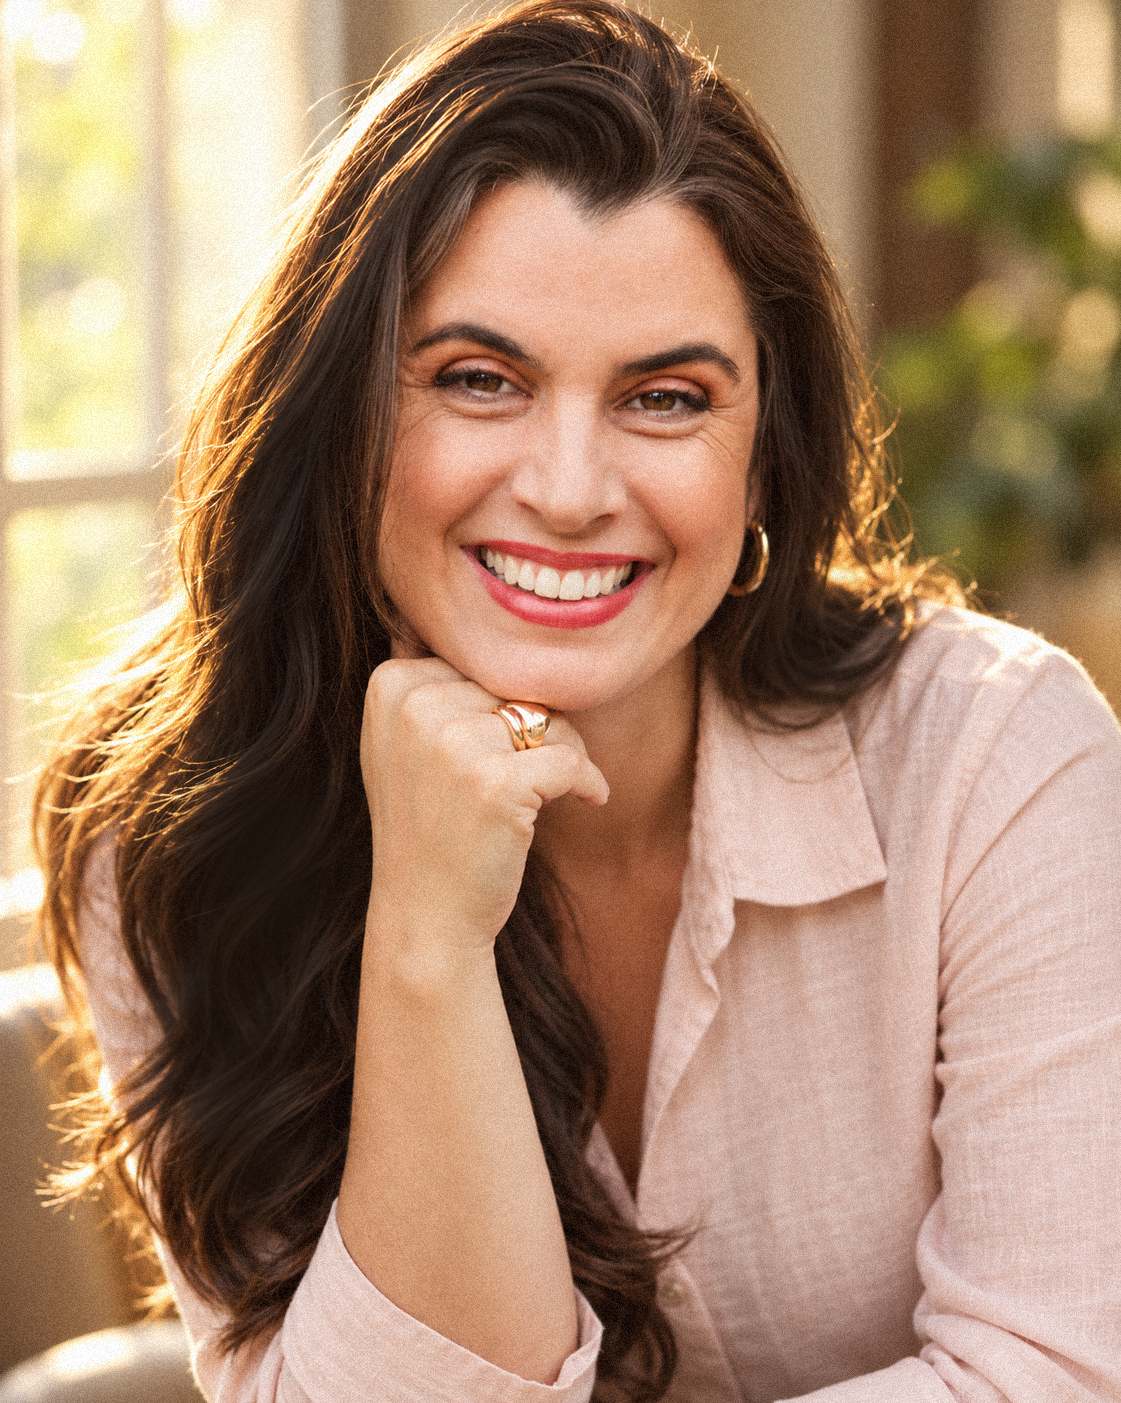
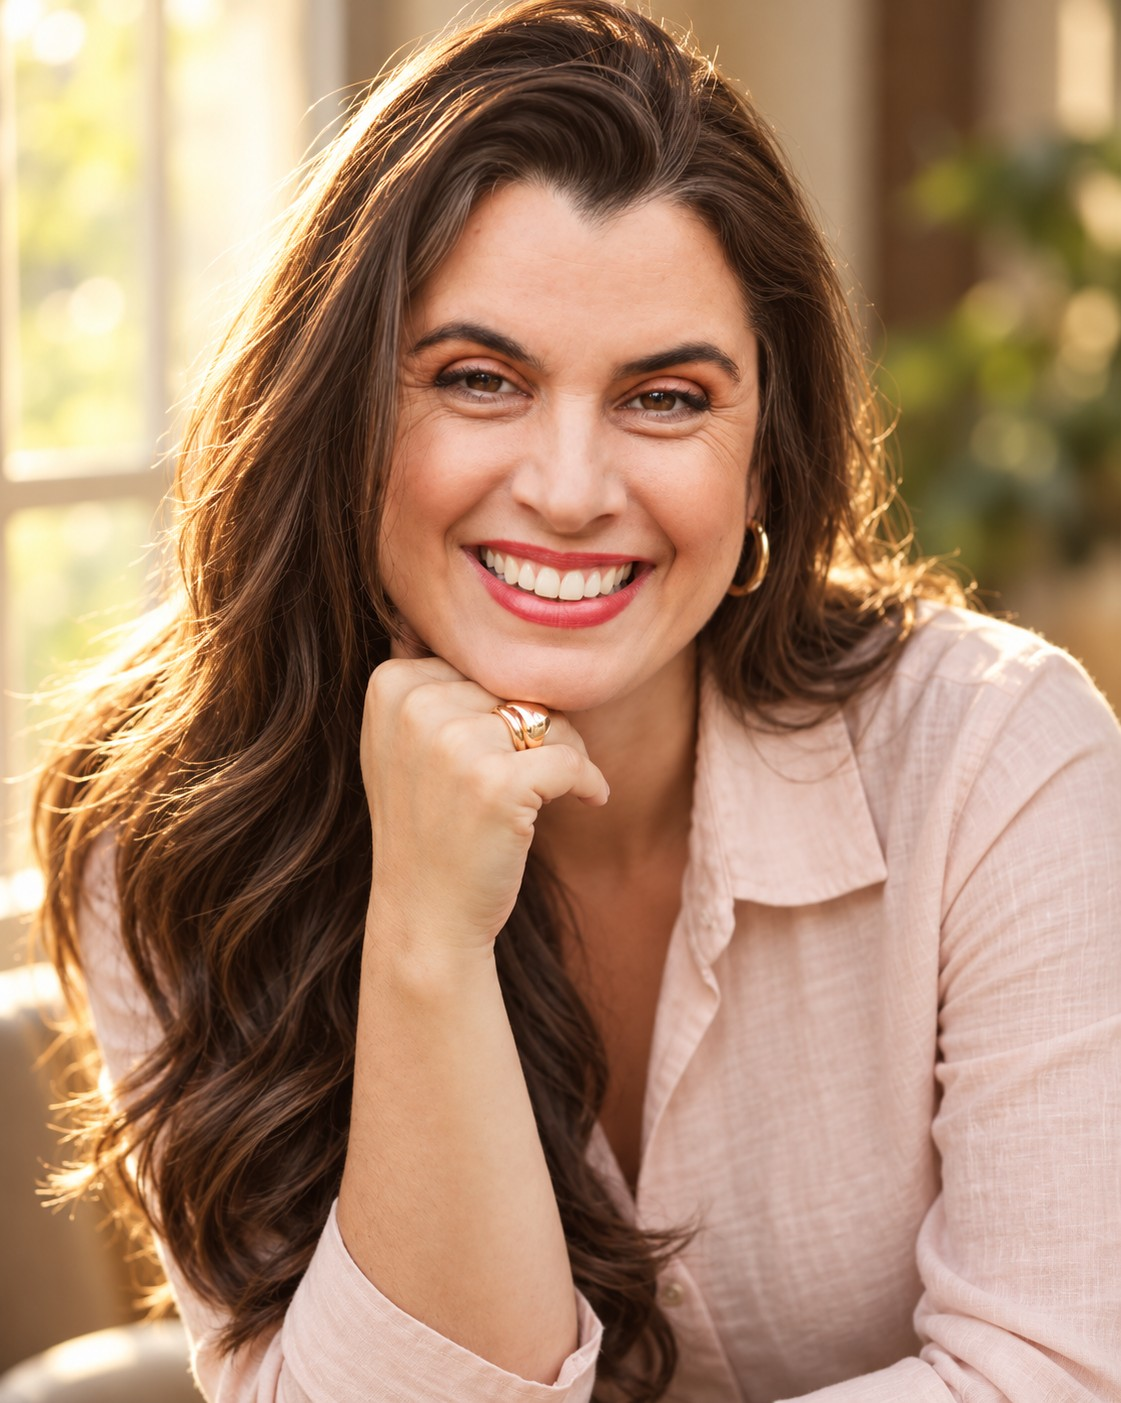
Add files via upload

Changed region(s): [[0.0937, 0.0306, 0.4996, 0.8582], [0.6869, 0.2452, 0.8118, 0.521], [0.3122, 0.7356, 0.3434, 0.8275]]

diff --git a/index.html b/index.html
@@ -3,7 +3,7 @@
 <head>
 <meta charset="utf-8">
 <meta name="viewport" content="width=device-width, initial-scale=1, viewport-fit=cover">
-<title>Lucinda Rae · Now it's your turn</title>
+<title>Lucinda Rae · When you feel good, you do good</title>
 <link rel="preconnect" href="https://fonts.googleapis.com">
 <link href="https://fonts.googleapis.com/css2?family=Lora:ital,wght@0,400;0,500;0,600;1,400;1,500&display=swap" rel="stylesheet">
 <style>
@@ -32,8 +32,8 @@ a:hover{color:#4A3530;}
     <div style="position:absolute; inset:0; background:rgba(28,16,12,0.22);"></div>
     <div style="position:relative; max-width:860px; display:flex; flex-direction:column; align-items:center;">
       <p style="margin:0 0 22px; font-size:16px; font-style:italic;">from Lucinda Rae</p>
-      <h1 style="margin:0; font-weight:500; font-size:clamp(36px, 5.4vw, 60px); line-height:1.02; letter-spacing:-0.01em; text-wrap:balance;">You've held everyone together. <em style="font-style:italic; color:#EDB7A6;">Now it's your turn.</em></h1>
-      <p style="margin:30px auto 0; max-width:30em; font-size:20px; line-height:1.75; text-wrap:pretty;">For the mama running on empty and ready to come back to herself. We all just want to feel good, and when you feel good, you do good.</p>
+      <h1 style="margin:0; font-weight:500; font-size:clamp(36px, 5.4vw, 60px); line-height:1.02; letter-spacing:-0.01em; text-wrap:balance;">When you feel good, <em style="font-style:italic; color:#EDB7A6;">you do good.</em></h1>
+      <p style="margin:30px auto 0; max-width:30em; font-size:20px; line-height:1.75; text-wrap:pretty;">Elevate your mind and empower your day. A simple morning ritual for clear focus, steady energy and feeling like yourself again.</p>
       <div style="width:100%; display:flex; flex-wrap:wrap; gap:14px; justify-content:center; margin-top:40px; white-space:nowrap;">
         <a href="#video" style="display:inline-flex; align-items:center; justify-content:center; text-decoration:none; border:none; cursor:pointer; background:#FFFFFF; color:#9A5A48; font-family:'Lora', serif; font-size:19px; padding:0 40px; min-height:58px; border-radius:0; transition:background .2s ease;" class="h1">watch the video</a>
         <a href="#story" style="display:inline-flex; align-items:center; justify-content:center; text-decoration:none; cursor:pointer; background:transparent; border:1px solid #FFFFFF; color:#FFFFFF; font-family:'Lora', serif; font-size:19px; padding:0 40px; min-height:58px; border-radius:0; transition:background .2s ease;" class="h2">read my story</a>
@@ -48,55 +48,64 @@ a:hover{color:#4A3530;}
       </div>
       <div style="flex:1 1 340px; display:flex; flex-direction:column;">
         <p style="margin:0 0 14px; font-size:16px; font-style:italic; color:#9A5A48;">my story</p>
-        <h2 style="margin:0 0 28px; font-weight:500; font-size:clamp(36px, 5vw, 52px); line-height:1.12; text-wrap:balance;">Somewhere in caring for my son, <em style="font-style:italic; color:#B0705E;">I lost track of me</em></h2>
+        <h2 style="margin:0 0 28px; font-weight:500; font-size:clamp(36px, 5vw, 52px); line-height:1.12; text-wrap:balance;">We all just want to <em style="font-style:italic; color:#B0705E;">feel good</em></h2>
         <div style="display:flex; flex-direction:column; gap:20px; font-size:19px; line-height:1.85; text-wrap:pretty;">
-          <p style="margin:0;">When my adult son was going through the hardest time of his life, I went through it with him. I stopped sleeping. I stopped eating real meals. Anxious and burned out, I kept going because that's what mamas do, until there was nothing left to give.</p>
+          <p style="margin:0;">Life gets heavy. Work, family, the hard seasons nobody sees. Most of us keep going on coffee and willpower, telling ourselves we'll rest later. I did that for years, until I was running on nothing.</p>
           <p style="margin:0;">I've come to believe our bodies hold what we've been through. The hard seasons don't just pass. They stay with us, sometimes for years.</p>
-          <p style="margin:0;">Coming back to myself started with something small: a gentle morning, one glass, a few quiet minutes before anyone needed me. This product line was born out of a lot of pain, and that pain turned into compassion. That's why I'm sharing it with you.</p>
+          <p style="margin:0;">Feeling good again started with something small: one glass, every morning, a few minutes that were just mine. This product line was born out of a lot of pain, and that pain turned into compassion. That's why I'm sharing it with you.</p>
         </div>
       </div>
     </div>
   </section>
 
     <section data-screen-label="Quote" style="position:relative; min-height:max(720px, 96vh); display:flex; align-items:center; justify-content:center; padding:128px 28px; overflow:hidden; background:#3A2A26;">
-    <img src="lu-young-mom.jpg" alt="A young mother lifting her baby in warm sunlight" style="position:absolute; inset:0; width:100%; height:100%; object-fit:cover; object-position:45% 30%; filter:saturate(1.05);">
+    <img src="products.png" alt="" style="position:absolute; inset:0; width:100%; height:100%; object-fit:cover; object-position:center; filter:saturate(1.05);">
     <div style="position:absolute; inset:0; background:rgba(92,44,30,0.72); mix-blend-mode:multiply;"></div>
     <div style="position:absolute; inset:0; background:rgba(28,16,12,0.2);"></div>
     <div style="position:relative; max-width:860px; display:flex; flex-direction:column; align-items:center; text-align:center; color:#FFFFFF;">
-      <p style="margin:0 0 20px; font-size:16px; font-style:italic;">what I want for you</p>
-      <h2 style="margin:0; font-weight:500; font-size:clamp(32px, 4.6vw, 48px); line-height:1.2; text-wrap:balance;">Waking up gently. Feeling less overwhelmed. Sleeping better. Coming back to yourself.</h2>
-      <p style="margin:28px auto 0; max-width:30em; font-size:19px; line-height:1.85; text-wrap:pretty;">You're the mom and the superhero, and you have to get through this season too. It's time to let the sorrow burn off and watch the hurt go up in flames. You deserve to feel good again.</p>
+      <p style="margin:0 0 20px; font-size:16px; font-style:italic;">what feeling good looks like</p>
+      <h2 style="margin:0; font-weight:500; font-size:clamp(32px, 4.6vw, 48px); line-height:1.2; text-wrap:balance;">Waking up clear. Moving through your day with steady energy. Showing up for the people you love, and for yourself.</h2>
+      <p style="margin:28px auto 0; max-width:30em; font-size:19px; line-height:1.85; text-wrap:pretty;">Your body holds what you've been through. It's time to let the heaviness burn off and watch the hurt go up in flames. You deserve to feel good again.</p>
       <div style="height:48px;"></div>
       <figure style="margin:0; max-width:620px; display:flex; flex-direction:column; align-items:center; gap:20px; padding:32px clamp(22px, 4vw, 44px);">
-        <blockquote style="margin:0; font-style:italic; font-weight:400; font-size:clamp(22px, 2.8vw, 30px); line-height:1.4; text-wrap:balance;">“I was so busy taking care of everyone else that I forgot to <span style="color:#EDB7A6;">take care of me.</span>”</blockquote>
+        <blockquote style="margin:0; font-style:italic; font-weight:400; font-size:clamp(22px, 2.8vw, 30px); line-height:1.4; text-wrap:balance;">“Feeling good isn't a luxury. It's how you <span style="color:#EDB7A6;">show up for your life.</span>”</blockquote>
         <figcaption style="font-size:16px; font-style:italic;">Lucinda Rae</figcaption>
       </figure>
     </div>
   </section>
 
-    <section data-screen-label="How it works" style="background:#EFE3D3; padding:64px 24px;">
-    <div style="max-width:1000px; margin:0 auto; display:flex; flex-wrap:wrap; justify-content:center; gap:40px 48px;">
-        <div style="flex:1 1 220px; display:flex; flex-direction:column; align-items:center; gap:6px; text-align:center;">
-          <p style="margin:0; font-size:15px; letter-spacing:0.2em; color:#9A5A48;">01</p>
-          <h3 style="margin:0; font-weight:500; font-size:24px; line-height:1.3;">Watch the video</h3>
-          <p style="margin:0; font-size:17px; line-height:1.7; max-width:18em; text-wrap:pretty;">Ten minutes with Jena on what she drinks every morning and why.</p>
+    <section data-screen-label="Benefits" style="background:#EFE3D3; padding:88px 24px;">
+    <div style="max-width:1100px; margin:0 auto;">
+      <div style="text-align:center; margin:0 auto 52px; max-width:640px;">
+        <p style="margin:0 0 14px; font-size:16px; font-style:italic; color:#9A5A48;">what a morning ritual can support</p>
+        <h2 style="margin:0; font-weight:500; font-size:clamp(34px, 4.8vw, 50px); line-height:1.12; text-wrap:balance;">Feel good from the <em style="font-style:italic; color:#B0705E;">inside out</em></h2>
+      </div>
+      <div style="display:flex; flex-wrap:wrap; justify-content:center; gap:40px 32px;">
+        <div style="flex:1 1 200px; display:flex; flex-direction:column; align-items:center; gap:8px; text-align:center; padding:8px;">
+          <h3 style="margin:0; font-weight:500; font-size:24px; line-height:1.3;">Steady energy</h3>
+          <div style="width:28px; height:1px; background:#D49A89; margin:4px 0;"></div>
+          <p style="margin:0; font-size:17px; line-height:1.7; max-width:16em; text-wrap:pretty;">Clean, all-day energy without the coffee crash.</p>
         </div>
-        <div style="width:1px; align-self:stretch; background:#D49A89;" class="divider"></div>
-        <div style="flex:1 1 220px; display:flex; flex-direction:column; align-items:center; gap:6px; text-align:center;">
-          <p style="margin:0; font-size:15px; letter-spacing:0.2em; color:#9A5A48;">02</p>
-          <h3 style="margin:0; font-weight:500; font-size:24px; line-height:1.3;">Tell me your goals</h3>
-          <p style="margin:0; font-size:17px; line-height:1.7; max-width:18em; text-wrap:pretty;">Send me a message. I read and answer every one myself.</p>
+        <div style="flex:1 1 200px; display:flex; flex-direction:column; align-items:center; gap:8px; text-align:center; padding:8px;">
+          <h3 style="margin:0; font-weight:500; font-size:24px; line-height:1.3;">Clear focus</h3>
+          <div style="width:28px; height:1px; background:#D49A89; margin:4px 0;"></div>
+          <p style="margin:0; font-size:17px; line-height:1.7; max-width:16em; text-wrap:pretty;">Organic mushrooms and nootropics for focus and creativity.</p>
         </div>
-        <div style="width:1px; align-self:stretch; background:#D49A89;" class="divider"></div>
-        <div style="flex:1 1 220px; display:flex; flex-direction:column; align-items:center; gap:6px; text-align:center;">
-          <p style="margin:0; font-size:15px; letter-spacing:0.2em; color:#9A5A48;">03</p>
-          <h3 style="margin:0; font-weight:500; font-size:24px; line-height:1.3;">Start your mornings</h3>
-          <p style="margin:0; font-size:17px; line-height:1.7; max-width:18em; text-wrap:pretty;">Together we pick what fits you, and I check in along the way.</p>
+        <div style="flex:1 1 200px; display:flex; flex-direction:column; align-items:center; gap:8px; text-align:center; padding:8px;">
+          <h3 style="margin:0; font-weight:500; font-size:24px; line-height:1.3;">Hydration & balance</h3>
+          <div style="width:28px; height:1px; background:#D49A89; margin:4px 0;"></div>
+          <p style="margin:0; font-size:17px; line-height:1.7; max-width:16em; text-wrap:pretty;">Trace minerals to nourish your core every day.</p>
         </div>
+        <div style="flex:1 1 200px; display:flex; flex-direction:column; align-items:center; gap:8px; text-align:center; padding:8px;">
+          <h3 style="margin:0; font-weight:500; font-size:24px; line-height:1.3;">Age on your terms</h3>
+          <div style="width:28px; height:1px; background:#D49A89; margin:4px 0;"></div>
+          <p style="margin:0; font-size:17px; line-height:1.7; max-width:16em; text-wrap:pretty;">Support for cellular health at every stage of life.</p>
+        </div>
+      </div>
     </div>
   </section>
 
-    <section id="video" data-screen-label="Video" style="background:#EFE3D3; color:#4A3530; padding:96px 20px;">
+    <section id="video" data-screen-label="Video" style="background:#FBF5F0; color:#4A3530; padding:96px 20px;">
     <div style="max-width:960px; margin:0 auto; text-align:center;">
       <p style="margin:0 0 14px; font-size:16px; font-style:italic; color:#9A5A48;">10-minute video</p>
       <h2 style="margin:0 0 18px; font-weight:500; font-size:clamp(34px, 4.8vw, 50px); line-height:1.15; text-wrap:balance;">Grab something warm and <em style="font-style:italic; color:#B0705E;">press play</em></h2>
@@ -108,7 +117,7 @@ a:hover{color:#4A3530;}
     </div>
   </section>
 
-    <section data-screen-label="Goals" style="padding:112px 24px;">
+    <section data-screen-label="Goals" style="background:#EFE3D3; padding:112px 24px;">
     <div style="max-width:680px; margin:0 auto; text-align:center;">
       <h2 style="margin:0 0 28px; font-weight:500; font-size:clamp(38px, 5.6vw, 58px); line-height:1.1; text-wrap:balance;">Now tell me <em style="font-style:italic; color:#B0705E;">your health goals</em></h2>
       <p style="margin:0 auto; max-width:34em; font-size:19px; line-height:1.85; text-wrap:pretty;">Send me a message and tell me what you're hoping for: more energy, better focus, calmer mornings, or just feeling like yourself again. I read and answer every message personally.</p>
@@ -159,14 +168,14 @@ a:hover{color:#4A3530;}
       <div style="margin-top:40px; display:flex; flex-direction:column; align-items:center; gap:14px; text-align:center;">
         <a href="https://frequense.com/lucinda/product/all-products/frequense-rise-vibe-revrs-bundle-tub-skufre-bundle-019us-id69?cat=bundles" target="_blank" rel="noopener" style="display:flex; align-items:center; justify-content:center; width:100%; max-width:420px; min-height:64px; padding:0 40px; background:#FFFFFF; color:#9A5A48; text-decoration:none; font-size:21px; transition:background .2s ease;" class="h5">get the trio</a>
         <p style="margin:0; font-size:15px; font-style:italic;">subscribe and save 10%</p>
-        <p style="margin:18px 0 0; font-size:17px; line-height:1.7; max-width:30em;">Want to start smaller? Many mamas begin with Rise and Source and add Revrs later.</p>
+        <p style="margin:18px 0 0; font-size:17px; line-height:1.7; max-width:30em;">Want to start smaller? Many people begin with Rise and Source and add Revrs later.</p>
         <a href="https://frequense.com/lucinda/product/all-products/frequense-rise-vibe-bundle-tub-skufre-bundle-003us-id19?cat=bundles" target="_blank" rel="noopener" style="display:flex; align-items:center; justify-content:center; min-height:52px; padding:0 32px; border:1px solid #FFFFFF; color:#FFFFFF; text-decoration:none; font-size:18px; transition:background .2s ease;" class="h6">get the duo</a>
         <p style="margin:14px 0 0; font-size:16px;">Not sure which is right for you? <a href="https://m.me/lucindarae" target="_blank" rel="noopener" style="color:#FFFFFF; font-weight:600; text-underline-offset:3px;">Message me</a> and I'll help you choose.</p>
       </div>
     </div>
   </section>
 
-    <section data-screen-label="Meet Lucinda" style="background:#EFE3D3; padding:104px 24px;">
+    <section data-screen-label="Meet Lucinda" style="background:#FBF5F0; padding:104px 24px;">
     <div style="max-width:1000px; margin:0 auto; display:flex; flex-wrap:wrap; align-items:center; gap:56px 72px;">
       <div style="flex:1 1 300px; max-width:420px; margin:0 auto;">
         <img src="lu-headshot-2.jpg" alt="Portrait of Lucinda Rae" style="display:block; width:100%; aspect-ratio:4/5; object-fit:cover; object-position:center 20%;">
@@ -174,7 +183,7 @@ a:hover{color:#4A3530;}
       <div style="flex:1.2 1 340px; display:flex; flex-direction:column; align-items:flex-start;">
         <p style="margin:0 0 14px; font-size:16px; font-style:italic; color:#9A5A48;">meet Lucinda</p>
         <h2 style="margin:0 0 24px; font-weight:500; font-size:clamp(38px, 5.2vw, 54px); line-height:1.1;">Hi, I'm <em style="font-style:italic; color:#B0705E;">Lucinda</em></h2>
-        <p style="margin:0; font-size:19px; line-height:1.85; text-wrap:pretty;">I'm a mother, an author and an artist. I've walked through hard seasons with my family, and I know how easy it is to disappear inside them. If you're in one now, I'd love to hear from you. Tell me what's going on and what you're hoping for.</p>
+        <p style="margin:0; font-size:19px; line-height:1.85; text-wrap:pretty;">I'm a mother, an author and an artist. I've walked through hard seasons, and I know how easy it is to lose yourself inside them. Whatever you're carrying right now, I'd love to hear from you. Tell me what's going on and what you're hoping for.</p>
         <a href="https://m.me/lucindarae" target="_blank" rel="noopener" style="margin-top:36px; display:flex; align-items:center; justify-content:center; min-height:58px; padding:0 44px; background:#D49A89; color:#FFFFFF; text-decoration:none; font-size:19px; transition:background .2s ease;" class="h7">message me</a>
       </div>
     </div>
